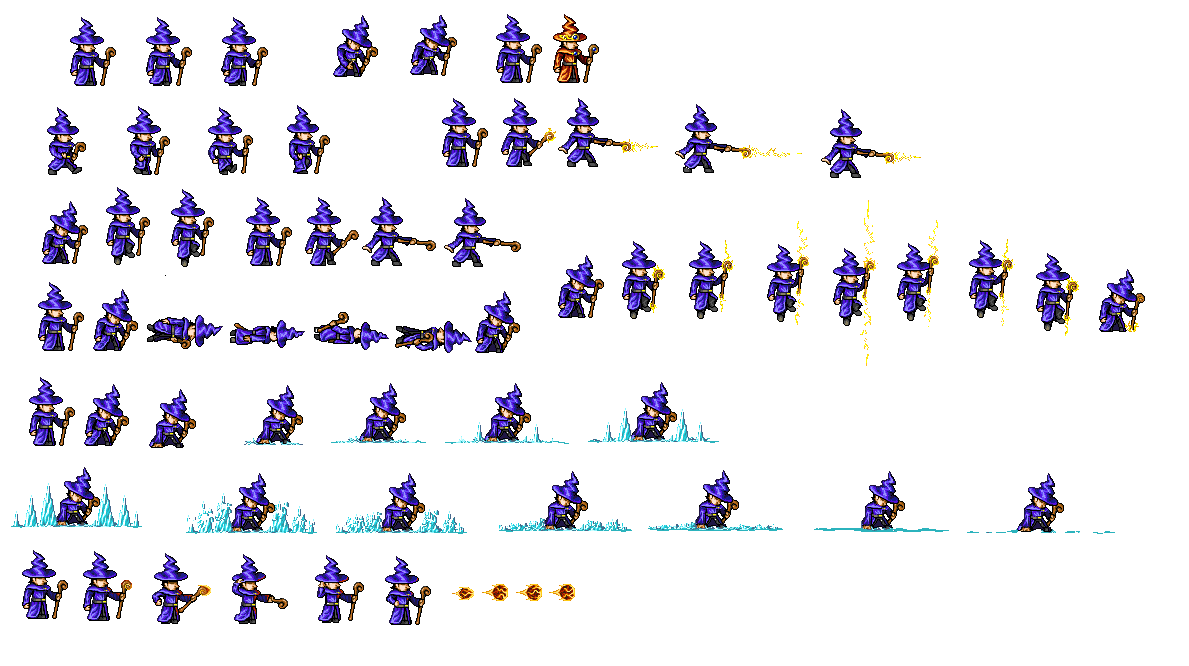
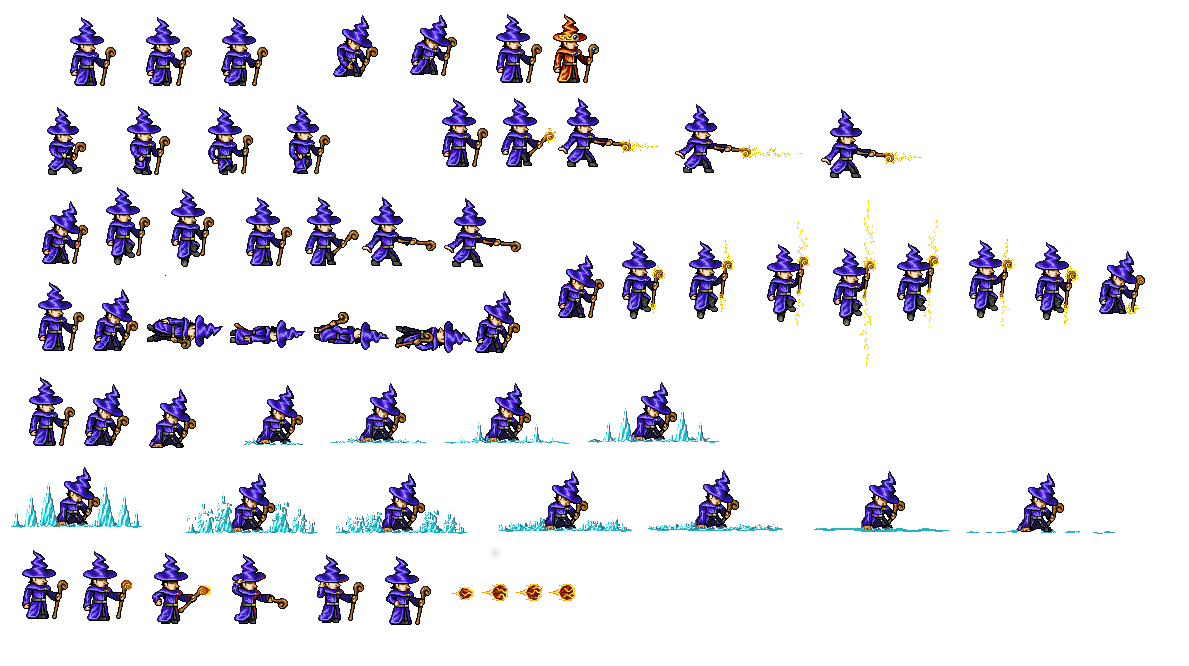
Trying to add in beginning of attack anims

Changed region(s): [[0.8713, 0.3604, 0.9647, 0.5105]]

diff --git a/SFML/GameLogic/Player.h b/SFML/GameLogic/Player.h
@@ -3,35 +3,57 @@
 #include <SFML/Graphics.hpp>
 #include <SFML/System.hpp>
 
-#define PLAYER_LOWEST_POS SCREEN_HEIGHT - PLAYER_HEIGHT
+#define PLAYER_LOWEST_POS SCREEN_HEIGHT - PLAYER_HEIGHT - GROUND_HEIGHT
 
-const unsigned int JUMPING = 0x01;
-const unsigned int MOVE_LEFT = 0x02;
-const unsigned int MOVE_RIGHT = 0x04;
-const unsigned int FALLING = 0x08;
-const int GROUND_HEIGHT = 10;
+// flags BITS
+const unsigned char JUMPING = 0x01;
+const unsigned char MOVE_LEFT = 0x02;
+const unsigned char MOVE_RIGHT = 0x04;
+const unsigned char FALLING = 0x08;
+const unsigned char START_SPECIAL = 0x10;
+
+//specialType BITS
+const unsigned char LIGHTNING_ATTACK_STATE = 0x01;
+const unsigned char ICE_SHIELD_STATE = 0x02;
+
+// GRAPHICS CONSTANTS
 const int PLAYER_HEIGHT = 75;
-const int PLAYER_WIDTH = 75;
+const int PLAYER_WIDTH = 68;
 const int WALK_FRAME_START_X = 50;
 const int WALK_FRAME_START_Y = 13;
+const int LIGHTNING_ATTACK_FPS = 9;
+const float LIGHTNING_ATTACK_UPDATE_TIME = (1.0 / LIGHTNING_ATTACK_FPS) * 1000;
+const int LIGHT_ATK_FRAME_START_X = 550;
+const int LIGHT_ATK_FRAME_START_Y = 195;
+const int LIGHT_ATK_HEIGHT = 175;
+
+// PHYSICS CONSTANTS
 const float PLAYER_WEIGHT = 50.f;
-const float JUMP_VELOCITY = -2.f;
-const float MOVE_VELOCITY = 2.f;
+const float JUMP_VELOCITY = -1.f;
+const float INITIAL_JUMP_VELOCITY = -2.f;
+const float MOVE_VELOCITY = 0.3f;
+
 const std::string pathToPlayerTexture = "res/playerChar/sorlo/sorlosheet.png";
+enum ActionTypes {IceShield, LightningJab, LightningAttack, StaffJab};
 
 class Player {
 private:
 	sf::Sprite* sprite;
-	unsigned int flags = 0;
+	sf::IntRect playerRect;
+	unsigned char flags = 0;
+	unsigned char specialType = 0;
+	float accruedTime = 0.f;
 	float velocityX = 0.f;
 	float velocityY = 0.f;
+	int GROUND_HEIGHT = 10;
 public:
-	Player(sf::Sprite* sprite);
+	Player(sf::Texture* texture);
 	void UpdatePosition(float deltaTime);
 	void Jump();
 	void Move(MoveDirections direction);
 	void StopMove();
-	void Draw(sf::RenderWindow* window);
+	void SpecialAction(ActionTypes action);
+	void Draw(sf::RenderWindow* window, float deltaTime);
 	sf::Vector2f GetPosition();
 	~Player();
 };

diff --git a/SFML/GameLogic/Player.cpp b/SFML/GameLogic/Player.cpp
@@ -1,8 +1,9 @@
 #include "Player.h"
 
-Player::Player(sf::Sprite* sprite)
+Player::Player(sf::Texture* texture)
 {
-	this->sprite = sprite;
+	playerRect = sf::IntRect(WALK_FRAME_START_X, WALK_FRAME_START_Y, PLAYER_WIDTH, PLAYER_HEIGHT);
+	this->sprite = new sf::Sprite(*texture, playerRect);
 }
 void Player::UpdatePosition(float deltaTime)
 {
@@ -18,7 +19,7 @@ void Player::UpdatePosition(float deltaTime)
 void Player::Jump()
 {
 	if (this->sprite->getPosition().y >= PLAYER_LOWEST_POS)
-		this->velocityY = -4.f;
+		this->velocityY = INITIAL_JUMP_VELOCITY;
 }
 void Player::Move(MoveDirections direction)
 {
@@ -37,8 +38,51 @@ void Player::StopMove()
 {
 	velocityX = 0;
 }
-void Player::Draw(sf::RenderWindow * window)
+void Player::SpecialAction(ActionTypes action)
 {
+	switch (action) 
+	{
+	case ActionTypes::IceShield:
+		break;
+	case ActionTypes::LightningAttack:
+		this->flags |= START_SPECIAL;
+		this->specialType |= LIGHTNING_ATTACK_STATE;
+		break;
+	}
+}
+void Player::Draw(sf::RenderWindow * window, float deltaTime)
+{
+	if (this->specialType & LIGHTNING_ATTACK_STATE)
+	{
+		this->accruedTime += deltaTime;
+		if (this->accruedTime >= LIGHTNING_ATTACK_UPDATE_TIME) 
+		{
+			if (flags & START_SPECIAL) 
+			{
+				playerRect.left = LIGHT_ATK_FRAME_START_X;
+				playerRect.top = LIGHT_ATK_FRAME_START_Y;
+				playerRect.height = LIGHT_ATK_HEIGHT;
+				GROUND_HEIGHT += 40;
+				this->flags &= ~START_SPECIAL;
+			}
+			else if((playerRect.left - LIGHT_ATK_FRAME_START_X) >= (PLAYER_WIDTH * (LIGHTNING_ATTACK_FPS - 1)))
+			{
+				this->specialType &= ~LIGHTNING_ATTACK_STATE;
+				playerRect.left = WALK_FRAME_START_X;
+				playerRect.top = WALK_FRAME_START_Y;
+				GROUND_HEIGHT -= 40;
+				playerRect.height = PLAYER_HEIGHT;
+			}
+			else
+			{
+				playerRect.left += PLAYER_WIDTH;
+			}
+			this->sprite->setTextureRect(playerRect);
+			this->accruedTime -= LIGHTNING_ATTACK_UPDATE_TIME;
+			std::cout << playerRect.left << std::endl;
+		}
+	}
+
 	window->draw(*sprite);
 }
 sf::Vector2f Player::GetPosition()

diff --git a/SFML/GameLogic/Bullet.cpp b/SFML/GameLogic/Bullet.cpp
@@ -15,7 +15,7 @@ Bullets::Bullets(sf::Texture* texture)
 void Bullets::Shoot(sf::Vector2f startPosition)
 {
 	this->flags[activeBullet] |= VISIBLE;
-	this->sprite[activeBullet]->setPosition(startPosition.x + 50, startPosition.y);
+	this->sprite[activeBullet]->setPosition(startPosition.x + 50, startPosition.y + 32);
 	if (activeBullet == NUM_OF_BULLETS - 1) 
 		this->activeBullet = 0; 
 	else 
@@ -30,9 +30,9 @@ void Bullets::UpdatePosition(float deltaTime)
 {
 	for (int i = 0; i <= NUM_OF_BULLETS-1; ++i) 
 	{
-		float newPositionY = this->sprite[i]->getPosition().y + (BULLET_VELOCITY * deltaTime);
-		this->sprite[i]->setPosition(this->sprite[i]->getPosition().x, newPositionY);
-		if (newPositionY < 0)
+		float newPositionX = this->sprite[i]->getPosition().x + (BULLET_VELOCITY * deltaTime);
+		this->sprite[i]->setPosition(newPositionX, this->sprite[i]->getPosition().y);
+		if (newPositionX > SCREEN_WIDTH)
 			this->flags[i] &= ~VISIBLE;
 	}
 }
@@ -44,12 +44,12 @@ void Bullets::Draw(sf::RenderWindow* window, float deltaTime)
 			this->accruedTime[i] += deltaTime;
 			if (this->accruedTime[i] >= updateFPSTime) 
 			{ 
-				std::cout << this->accruedTime << std::endl;
-				accruedTime[i] -= updateFPSTime;
-				if ((bulletRect.left - BULLET_FRAME_START_X) > (PLAYER_WIDTH * 4))
+				if ((bulletRect.left - BULLET_FRAME_START_X) >= (BULLET_WIDTH * (FPS - 1)))
 					bulletRect.left = BULLET_FRAME_START_X;
 				else
-					bulletRect.left += PLAYER_WIDTH;
+					bulletRect.left += BULLET_WIDTH;
+				accruedTime[i] -= updateFPSTime;
+				sprite[i]->setTextureRect(bulletRect);
 			}
 			window->draw(*sprite[i]); 
 		}

diff --git a/SFML/main.cpp b/SFML/main.cpp
@@ -7,16 +7,10 @@ int main()
 	// Attempt at preallocating all gameobjects
 	sf::RenderWindow window(sf::VideoMode(SCREEN_WIDTH, SCREEN_HEIGHT), "SFML");
 
-	// Set up player class
 	sf::Texture playerTexture;
 	playerTexture.loadFromFile(pathToPlayerTexture);
-	sf::IntRect playerRect(WALK_FRAME_START_X, WALK_FRAME_START_Y, PLAYER_WIDTH, PLAYER_HEIGHT);
-	sf::Sprite playerSprite(playerTexture, playerRect);
 
-	Player player = Player(&playerSprite);
-
-	// Set up bullet array
-	
+	Player player = Player(&playerTexture);
 	Bullets* bullets = new Bullets(&playerTexture);
 
 	// Setup time variables
@@ -50,6 +44,9 @@ int main()
 						case sf::Keyboard::F:
 							bullets->Shoot(player.GetPosition());
 							break;
+						case sf::Keyboard::E:
+							player.SpecialAction(ActionTypes::LightningAttack);
+							break;
 					}
 				}
 				if (event.type == sf::Event::KeyReleased) 
@@ -62,7 +59,7 @@ int main()
 			bullets->UpdatePosition(elapsed.asMilliseconds());
 
 			window.clear();
-			player.Draw(&window);
+			player.Draw(&window, elapsed.asMilliseconds());
 			bullets->Draw(&window, elapsed.asMilliseconds());
 			window.display();
 

diff --git a/SFML/GameLogic/Bullet.h b/SFML/GameLogic/Bullet.h
@@ -8,19 +8,19 @@ const std::string pathToBulletTexture = "res/playerChar/bulletPlayer.png";
 const int NUM_OF_BULLETS = 100;
 const int BULLET_FRAME_START_X = 450;
 const int BULLET_FRAME_START_Y = 580;
-const int BULLET_WIDTH = 25;
-const int BULLET_HEIGHT = 25;
+const int BULLET_WIDTH = 32;
+const int BULLET_HEIGHT = 32;
 const int FPS = 4;
-const float updateFPSTime = (1.0 / FPS) * 100.0;
-const float BULLET_VELOCITY = -0.1f;
-const unsigned int VISIBLE = 0x01;
+const float updateFPSTime = (1.0 / FPS) * 1000.0;
+const float BULLET_VELOCITY = 0.25f;
+const unsigned char VISIBLE = 0x01;
 
 class Bullets
 {
 private:
 	sf::Sprite* sprite[NUM_OF_BULLETS];
 	sf::IntRect bulletRect;
-	unsigned int flags[NUM_OF_BULLETS];
+	unsigned char flags[NUM_OF_BULLETS];
 	int activeBullet = 0;
 	float accruedTime[NUM_OF_BULLETS];
 public:

diff --git a/SFML/GameLogic/GameLogic.h b/SFML/GameLogic/GameLogic.h
@@ -3,7 +3,7 @@
 #include <SFML/System.hpp>
 #include <SFML/Graphics.hpp>
 
-const float GRAVITY_FORCE = 0.5f;
+const float GRAVITY_FORCE = 0.3f;
 const float JUMP_AIR_TIME = 0.5f;
 const int SCREEN_HEIGHT = 600;
 const int SCREEN_WIDTH = 800;
